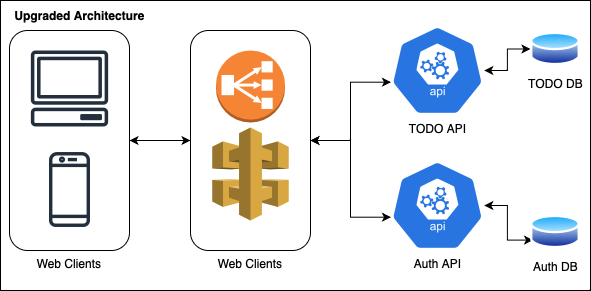
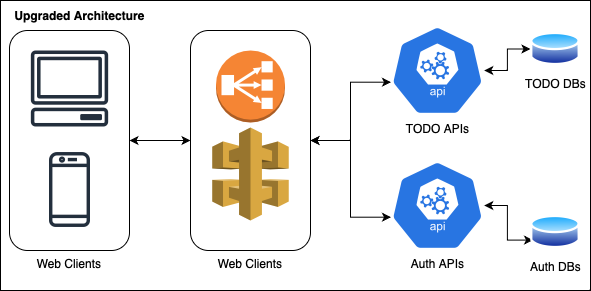
Update documentation

diff --git a/src/main/java/com/tyr/todo/task/controller/TaskController.java b/src/main/java/com/tyr/todo/task/controller/TaskController.java
@@ -18,9 +18,15 @@ public class TaskController {
     private final TaskService taskService;
 
     @GetMapping("inquiry/all")
-    public TaskPaginationDTO selectAllTasks(@RequestBody TaskPaginationInputDTO taskPaginationInputDTO, @RequestAttribute("extractedUsername") String username) {
-        taskPaginationInputDTO.setUsername(username);
-        return taskService.selectTasksByUsername(taskPaginationInputDTO);
+    public TaskPaginationDTO selectAllTasks(@RequestParam("currentPage") int currentPage, @RequestParam("pageSize") int pageSize, @RequestAttribute("extractedUsername") String username) {
+        return taskService.selectTasksByUsername(
+                TaskPaginationInputDTO
+                        .builder()
+                        .username(username)
+                        .currentPage(currentPage)
+                        .pageSize(pageSize)
+                        .build()
+        );
     }
 
     @PostMapping("retrieve")

diff --git a/src/main/java/com/tyr/todo/core/configuration/SecurityConfiguration.java b/src/main/java/com/tyr/todo/core/configuration/SecurityConfiguration.java
@@ -21,9 +21,9 @@ public class SecurityConfiguration {
 
     @Bean
     public SecurityFilterChain securityFilterChain(HttpSecurity http) throws Exception {
-        return http.csrf().disable()
+        return http.cors().and().csrf().disable()
                 .authorizeRequests()
-                .antMatchers("/v1/auth/authenticate", "/h2-console")
+                .antMatchers("/v1/auth/authenticate")
                 .permitAll()
                 .anyRequest()
                 .authenticated()

diff --git a/src/main/java/com/tyr/todo/core/model/SecurityConstants.java b/src/main/java/com/tyr/todo/core/model/SecurityConstants.java
@@ -2,7 +2,7 @@ package com.tyr.todo.core.model;
 
 public class SecurityConstants {
[1 lines of base64/hex data omitted]
-    public static final long EXPIRATION_TIME = 1440000;
+    public static final long EXPIRATION_TIME = 14400000;
     public static final String TOKEN_PREFIX = "Bearer ";
     public static final String HEADER_STRING = "Authorization";
 }

diff --git a/src/main/java/com/tyr/todo/auth/model/AuthenticationDTO.java b/src/main/java/com/tyr/todo/auth/model/AuthenticationDTO.java
@@ -1,5 +1,6 @@
 package com.tyr.todo.auth.model;
 
+import com.tyr.todo.user.model.Role;
 import lombok.AllArgsConstructor;
 import lombok.Builder;
 import lombok.Data;
@@ -12,4 +13,6 @@ import lombok.NoArgsConstructor;
 public class AuthenticationDTO {
 
     private String token;
+    private String name;
+    private Role role;
 }

diff --git a/src/main/java/com/tyr/todo/auth/service/AuthenticationService.java b/src/main/java/com/tyr/todo/auth/service/AuthenticationService.java
@@ -44,6 +44,8 @@ public class AuthenticationService {
 
         return AuthenticationDTO.builder()
                 .token(jwtService.generateToken(user))
+                .name(user.getFirstName() + " " + user.getLastName())
+                .role(user.getRole())
                 .build();
     }
 }

diff --git a/README.md b/README.md
@@ -3,8 +3,8 @@
 > Simple online TODO API with user authentication.
 
 ## WAR File
-The generated WAR file is too big to upload to GIT. GIT maximum file size to upload is 25 MB.
-So after downloaded the source code, please run below command to generate the WAR file in target folder.
+Please run below command to generate the WAR file in target folder, after downloaded the source code.
+Alternatively, readers can download from this [link](https://1drv.ms/u/s!ApLlb52SrD-qhv4vcaXWZ5MW6f8yYg?e=aK6eig).
 
 ```sh
 $ mvn clean package
@@ -12,26 +12,23 @@ $ mvn clean package
 
 ## Approach
 The author is aware of the TODO application's simplicity and that it can be made using a simple monolithic approach.
-However, the authors choose a distributed approach because the authors believe this application is only a sample application, 
-so the types of applications in the actual project will be far more complex. 
-Therefore the microservices architecture is a good solution for big and complex project. 
+However, the authors choose a distributed approach because the authors believe this application is only a practice application. 
+The types of applications in the actual project will be far more huge and complex. 
+Therefore, the microservice architecture is a good solution for complex distributed project. 
 This architecture has a high level of modularity, fault tolerance, scalability, and testability.
-The author uses **spring boot** technology as the back end API and **react** as the front end.
+The author uses **spring boot** technology for the back end API and **react** as the web client front end.
 
 ## Architecture
 ![High Level Architecture](images/d1.png)
 
-The current system is separated into 3 main parts using the microservices approach: 
-microfrontend, microservice, and database. 
-The picture above may look simple, 
-but the potential for developing an architecture will be more accessible by using this approach.
-This architecture design follows an aggregator pattern that splits large complex problems into independent services.
+System components consist of a microfrontend, a microservice, and a database. It may seem simple, but this approach opens up the possibility of developing an architecture.
+The architecture design follows an aggregator pattern, which splits large complex problems into independent services.
 
 ![Upgraded High Level Architecture](images/d2.png)
-For example, developers can separate the authentication and todo modules into individual microservices. 
-That way, the System Scale can quickly increase or decrease according to needs. 
-The system can also be added with an API Gateway which functions as a reverse proxy and a load balancer 
-if there are a lot of application users.
+
+Authentication and todo modules, for example, can be separated into separate microservices.
+In this way, the system scale can be quickly increased or decreased based on needs.
+It is also possible to add an API Gateway, which acts as authentication, network routing and load balancer, if there are a lot of users.
 
 ## Code Structure and Clarity
 <img src="images/cs1.png" width="200" />
@@ -42,43 +39,50 @@ There are 4 main modules, authentication, core, task, and user.
 <img src="images/cs2.png" width="200" />
 
 The code is separated by several folders. The structure in it follows the MVC design, but without View.
-1. **Controller.** This layer is to determine API resource path.
-2. **Entity.** This layer is data model for database entity.
-3. **Model.** This layer is data model for request and response, including enum and constant.
-4. **Repository.** This layer is interface to query to database.
-5. **Service.** This is the primary logic for controller.
+1. **Controller.** This folder controls REST API resource path.
+2. **Entity.** This folder defines data model for database entity.
+3. **Model.** This folder consists of data model for request and response, including enum and constant.
+4. **Repository.** This folder keeps an interface to query to database.
+5. **Service.** Service file is the primary logic for controller.
 
 <img src="images/cs3.png" width="200" />
 
-The unit test section is in the test folder section. 
-The author makes unit tests for the repository interface and service layer.
+In the test folder section, there is a section for unit tests. 
+Unit tests are written for the repository interface and service layer.
 
 **Note for clarity:**
-1. Use Builder design pattern for Object creation. 
+1. Use builder design pattern for object creation. 
 2. Maximise Java8 lambda feature in writing code.
 3. Enum for easier code maintenance.
-4. Use flyway to database script versioning.
+4. Use flyway to organizing database script and versioning.
 
 ## Performance
 The author embeds the pagination feature when loading tasks, so that the performance of the client application remains stable.
 Spring Boot's built-in features such as dependency injection and lazy loading also improve application performance.
 
 ## Security
-The author implements API security using Spring security and JWT. 
-The user must log in first to get the authorization token. 
-This token is placed in the request header when calling other APIs.
+Spring security and JWT are used by the author to implement API security.
+The authorization token can only be obtained after the user logs in.
+Whenever user call another API, this token is sent as part of the request header.
 
 ![Security Workflow](images/d3.png)
 
-The picture above is the security workflow in the TODO API. 
-The user request will pass through the JWTFilter first to detect whether a token is attached to the header. 
-If there is, it will be followed by checking the token's validity by JWTService. 
-If it is not valid, it will be given a 403 Forbidden HTTP status to the user. 
-If valid, JWTFilter will check the credentials on the database. 
-When all are valid, JWTService will update the Spring Security Context Holder, 
-and then the controller will give HTTP status response of 200 to the user.
+The security workflow of the TODO API is depicted in the image above.
+The user request will first go through the JWTFilter to see if a token exist in the header.
+If there is, JWTService will verify the token's validity.
+If it is invalid, the user will receive a 403 Forbidden HTTP status.
+If the credentials are legitimate, JWTFilter will check them against the database.
+When all of these conditions are met, 
+JWTService will update the Spring Security Context Holder, 
+and the controller will provide an HTTP status code of 200 to the user.
 
 ## Testing
+
+> **Important credentials:** 
+> 1. username: test, password: pwd123
+> 2. username: test2, password: pwd124
+
+### Back End Testing
 The author uses postman to test the back end without a client. 
 Readers can export [todo.postman_collection.json](postman/todo.postman_collection.json) to the local environment. 
 Readers can also create their client web apps to interact with the TODO API provided in this project. 
@@ -88,7 +92,42 @@ In addition, full API documentation can be found in this [link](https://document
 Make when run the API, call the auth API first to get JWT token. 
 This token need to put in header as authentication call other services.
 
-> Credentials: username: test, password: pwd123
+### Front End Testing
+It should be noted that the client web service used is a **recycling** of the **previous author's project**.
+The use of this web client is only for demonstration of using the TODO API.
+
+1. Download the front end source code, and install the node modules using below command:
+
+   ```sh
+   $ npm install --legacy-peer-deps
+   ```
+   
+2. Run the client application.
+
+   ```sh
+   $ npm run start
+   ```
+
+3. Go to `localhost:3000` to see the homepage.
+   <img src="images/h1.png" width="600" />
+
+4. Go to `localhost:3000/dashboard`, put correct credentials.
+    <img src="images/h2.png" width="600" />
+
+5. After login, user will be arrived at dashboard page.
+   <img src="images/h3.png" width="600" />
+
+6. Click task, it will show user's TODO list.
+   <img src="images/h4.png" width="600" />
+
+7. User can add task by clicking Add Task button on top left.
+   <img src="images/h5.png" width="600" />
+
+8. User can see detail of the TODO by clicking description hyperlink.
+   <img src="images/h6.png" width="600" />
+
+9. User can Update and Delete TODO by clicking edit button in task list or in detail page.
+   <img src="images/h7.png" width="600" />
 
 ## Authors
 - **Cornelius** - _Initial work_ - [cornelius-tyranade](https://github.com/cornelius-tyranade) - cornelius.works@gmail.com
